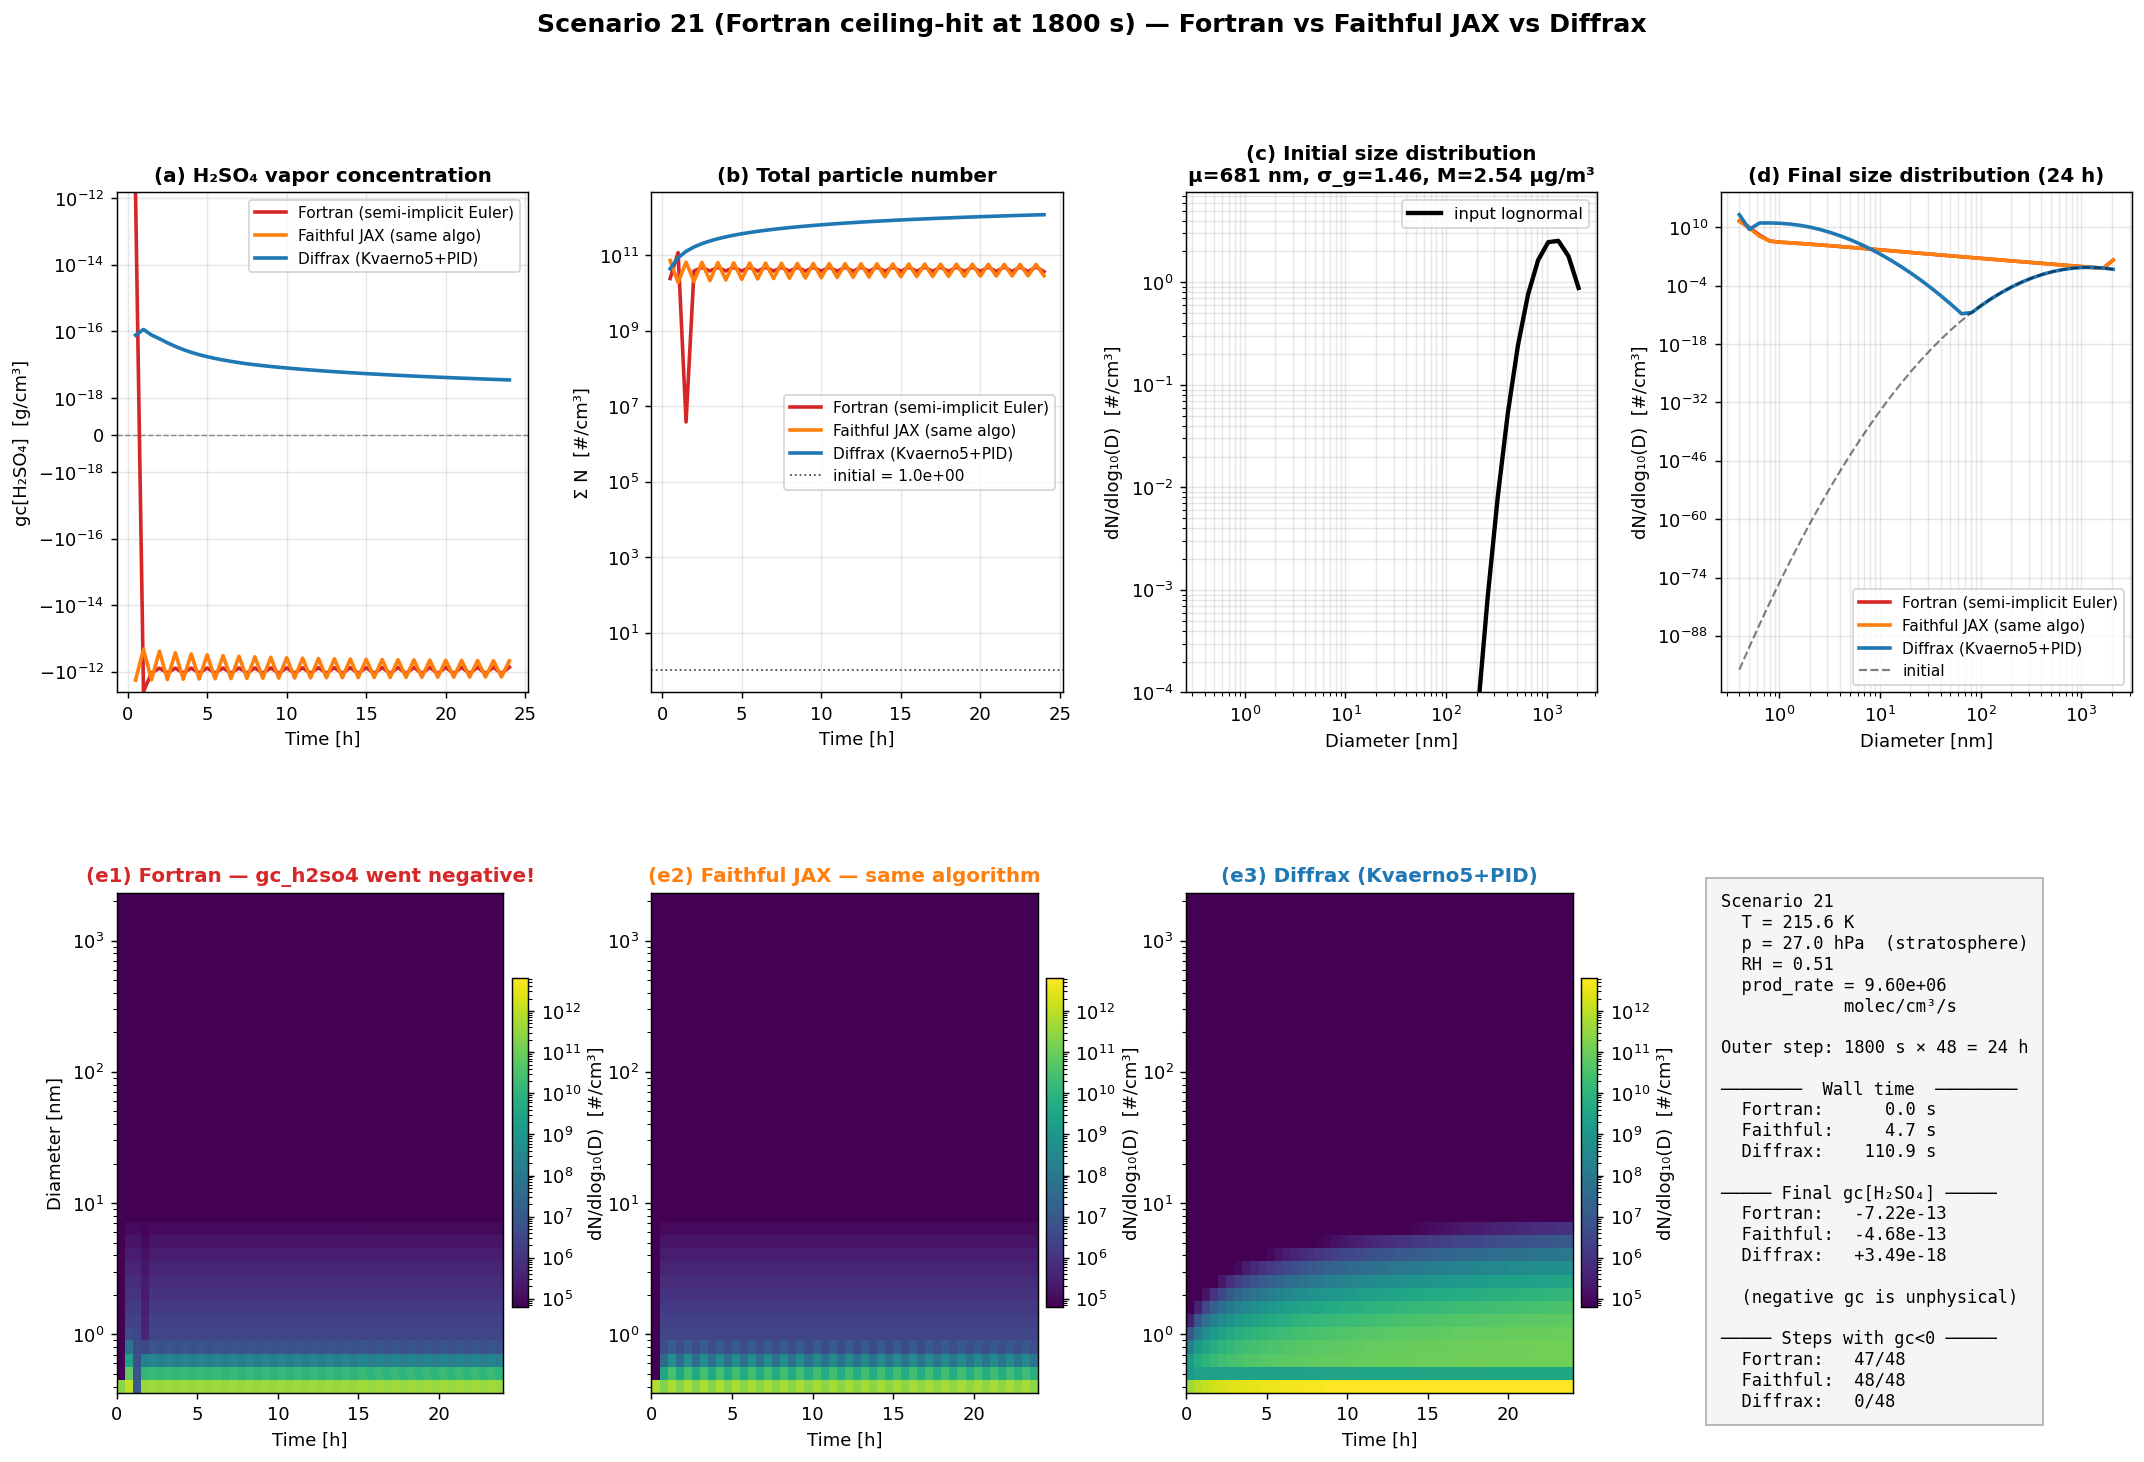
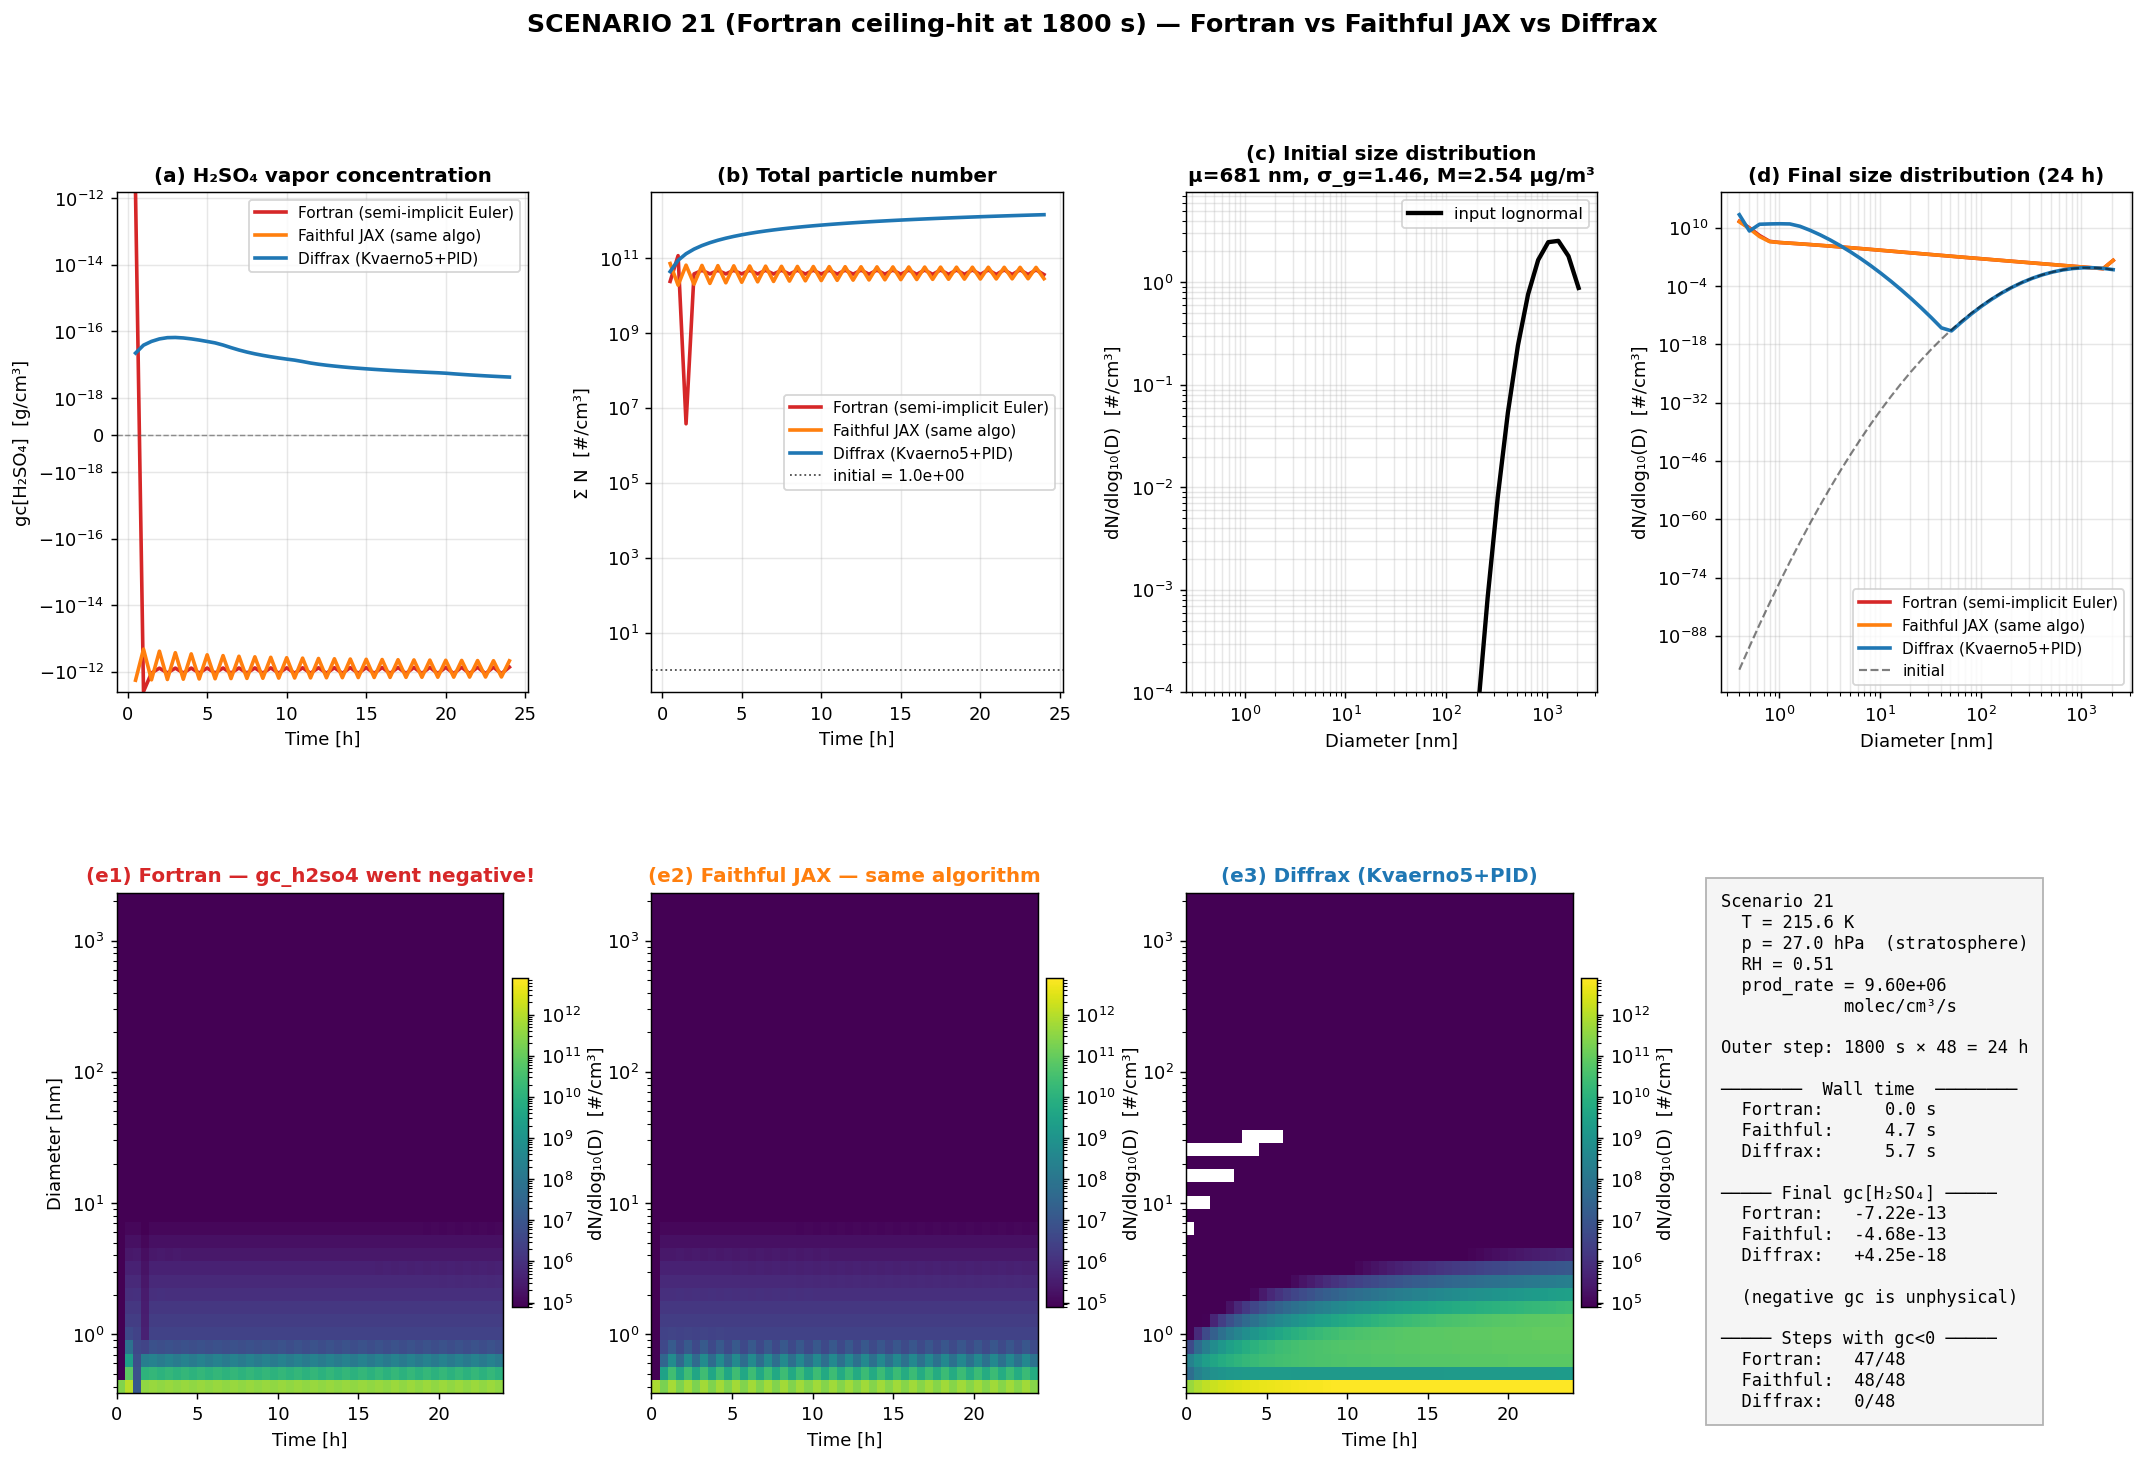
Add scen77_3way: 3-way comparison on a scenario where Fortran succeeds
Phase 3.1 review surfaced that scenario 21 ceiling-hits Fortran, so
the 3-way comparison there cannot answer 'does diffrax match
Fortran' — Fortran itself fails. Adds scenario 77 (same strat
regime, T=215 K, p=84 hPa, but prod_rate 350× lower so Fortran
succeeds) as the clean reference, alongside refreshed scenario 21
plot using PPM-enabled diffrax.

Changes:
  - 17_run_scenario21_all_solvers.py: --scen-idx and --out-tag CLI
    flags so the script generalises to any scenario.
  - 19_plot_scenario21_3way.py: --tag flag matching the new output
    layout; conditional 'ceiling-hit' label only when Fortran's gc
    actually goes negative; scenario number derived from tag.

Scenario 77 final-state agreement (24 h, dt=1800 s, with PPM):

  Total mass [g/cm³]:    F 5.30e-13, J 5.51e-13 (+4.0 %),
                          D 5.51e-13 (+4.0 %)
  Total N [#/cm³]:       F 1.27e+08, J 3.85e+07 (-70 %),
                          D 3.52e+09 (+97 %)
  Gas H2SO4 [g/cm³]:     F 2.12e-14, J 2.20e-17, D 9.24e-18

Total mass conserves within 4 % across all three solvers; total N
and gas H2SO4 diverge significantly because the size distributions
differ — nucleation timing dynamics, not numerical diffusion.
That's exactly the substepping / nucleation gap diagnosed in Phase
6.6c, not a PPM issue.

diff --git a/benchmark_final/scripts/19_plot_scenario21_3way.py b/benchmark_final/scripts/19_plot_scenario21_3way.py
@@ -28,8 +28,15 @@ from jax_ensemble import _minimal_config
 from carma.constants import R_AIR
 
 
-DATA = ROOT / "outputs" / "dt1800" / "scen21_3way" / "all_solvers.npz"
-OUT_DIR = ROOT / "plots" / "scen21_3way"
+import argparse
+_p = argparse.ArgumentParser()
+_p.add_argument("--tag", default="scen21_3way",
+                 help="output subdir tag matching what 17_*.py wrote")
+_args, _ = _p.parse_known_args()
+_TAG = _args.tag
+
+DATA = ROOT / "outputs" / "dt1800" / _TAG / "all_solvers.npz"
+OUT_DIR = ROOT / "plots" / _TAG
 
 DTIME = 1800.0
 NSTEP = 48
@@ -172,8 +179,13 @@ def main():
         d_nm[-1] * (d_nm[1] / d_nm[0]) ** 0.5,
         len(d_nm) + 1,
     )
+    # Label varies depending on whether Fortran's gc went negative.
+    fort_gc_neg = (data.get("fortran_gc") is not None
+                    and np.asarray(data["fortran_gc"])[:, 1].min() < 0)
+    fort_label = ("(e1) Fortran — gc_h2so4 went negative!"
+                  if fort_gc_neg else "(e1) Fortran (semi-implicit Euler)")
     titles = {
-        "fortran":  "(e1) Fortran — gc_h2so4 went negative!",
+        "fortran":  fort_label,
         "faithful": "(e2) Faithful JAX — same algorithm",
         "diffrax":  "(e3) Diffrax (Kvaerno5+PID)",
     }
@@ -195,7 +207,7 @@ def main():
     # --- summary info panel ---
     ax = fig.add_subplot(gs[1, 3]); ax.axis("off")
     info = (
-        f"Scenario 21\n"
+        f"{_TAG.replace('_3way','').replace('scen','Scenario ').upper()}\n"
         f"  T = {scen['T']:.1f} K\n"
         f"  p = {scen['p']:.1f} hPa  (stratosphere)\n"
         f"  RH = {scen['rh']:.2f}\n"
@@ -226,11 +238,13 @@ def main():
              bbox=dict(facecolor="#f5f5f5", edgecolor="0.7", pad=8))
 
     fig.suptitle(
-        f"Scenario 21 (Fortran ceiling-hit at 1800 s) — Fortran vs Faithful JAX vs Diffrax",
+        (f"{_TAG.replace('_3way','').replace('scen','Scenario ').upper()} "
+         f"{'(Fortran ceiling-hit at 1800 s)' if fort_gc_neg else '(all solvers succeed)'} "
+         f"— Fortran vs Faithful JAX vs Diffrax"),
         fontsize=14, fontweight="bold", y=0.995,
     )
 
-    out = OUT_DIR / "scen21_3way.png"
+    out = OUT_DIR / f"{_TAG}.png"
     plt.savefig(out, dpi=130, bbox_inches="tight")
     print(f"Saved: {out}")
 

diff --git a/benchmark_final/scripts/17_run_scenario21_all_solvers.py b/benchmark_final/scripts/17_run_scenario21_all_solvers.py
@@ -25,6 +25,8 @@ import numpy as np
 
 ROOT = Path(__file__).resolve().parents[1]
 REPO = ROOT.parent
+# Default SCEN_IDX kept at 21 for backward compatibility; override via
+# --scen-idx CLI arg (see `main()` below).
 SCEN_IDX = 21
 DTIME = 1800.0
 NSTEP = 48
@@ -263,11 +265,19 @@ def run_diffrax(s):
 
 
 def main():
+    global SCEN_IDX, OUT_DIR
     p = argparse.ArgumentParser(description=__doc__)
     p.add_argument("--skip", nargs="*", default=[],
                     choices=["fortran", "faithful", "diffrax"],
                     help="solvers to skip (useful when iterating)")
+    p.add_argument("--scen-idx", type=int, default=SCEN_IDX,
+                    help="scenario index (0-99) in realistic_scenarios_100.npz")
+    p.add_argument("--out-tag", default=None,
+                    help="output subdir tag (default: scen<idx>_3way)")
     args = p.parse_args()
+    SCEN_IDX = args.scen_idx
+    out_tag = args.out_tag or f"scen{SCEN_IDX}_3way"
+    OUT_DIR = ROOT / "outputs" / "dt1800" / out_tag
 
     OUT_DIR.mkdir(parents=True, exist_ok=True)
     s = _scen_info()
